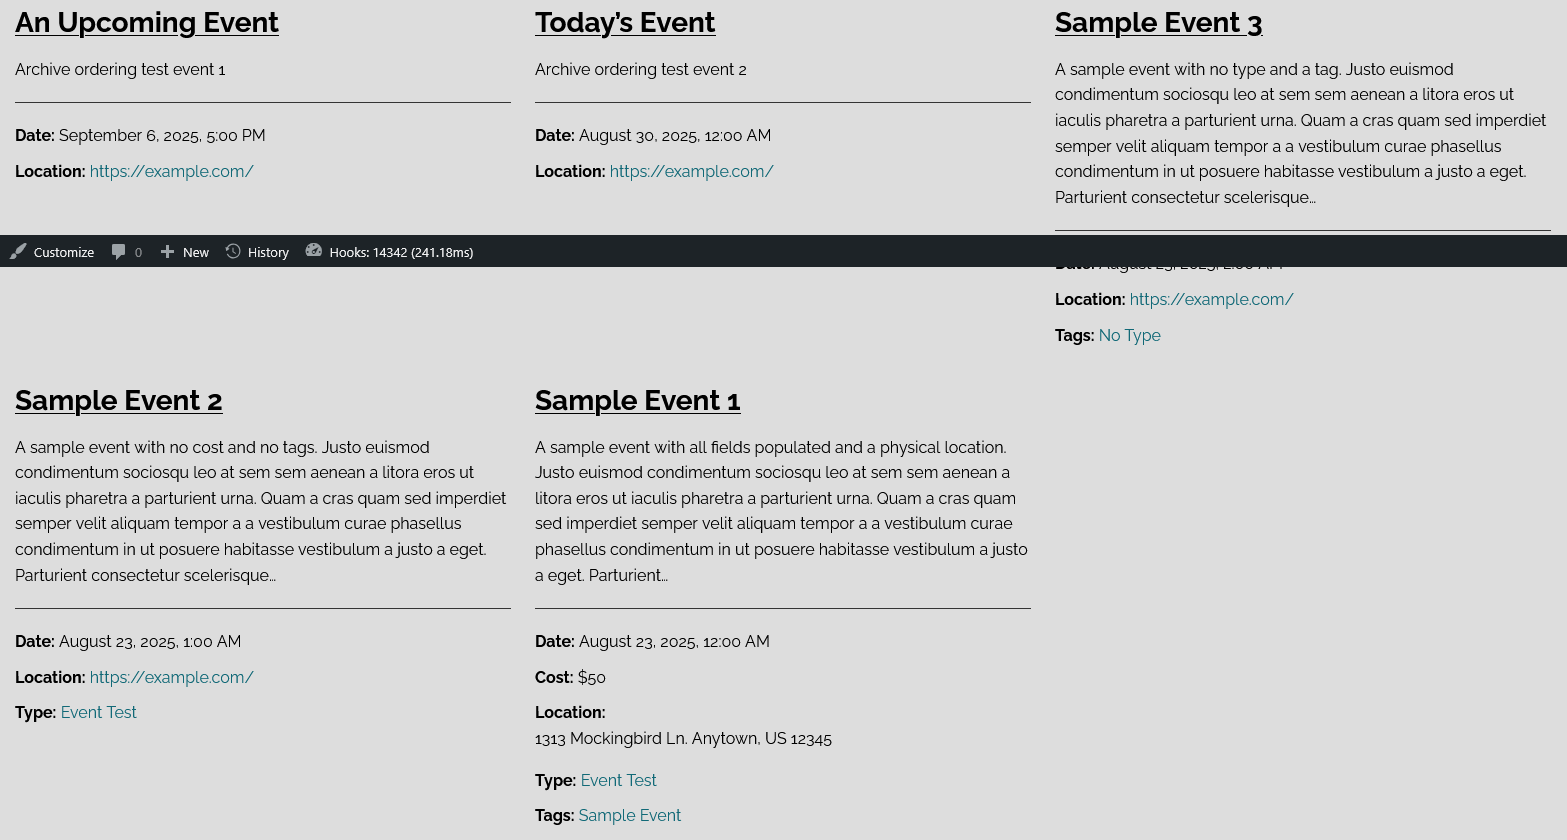
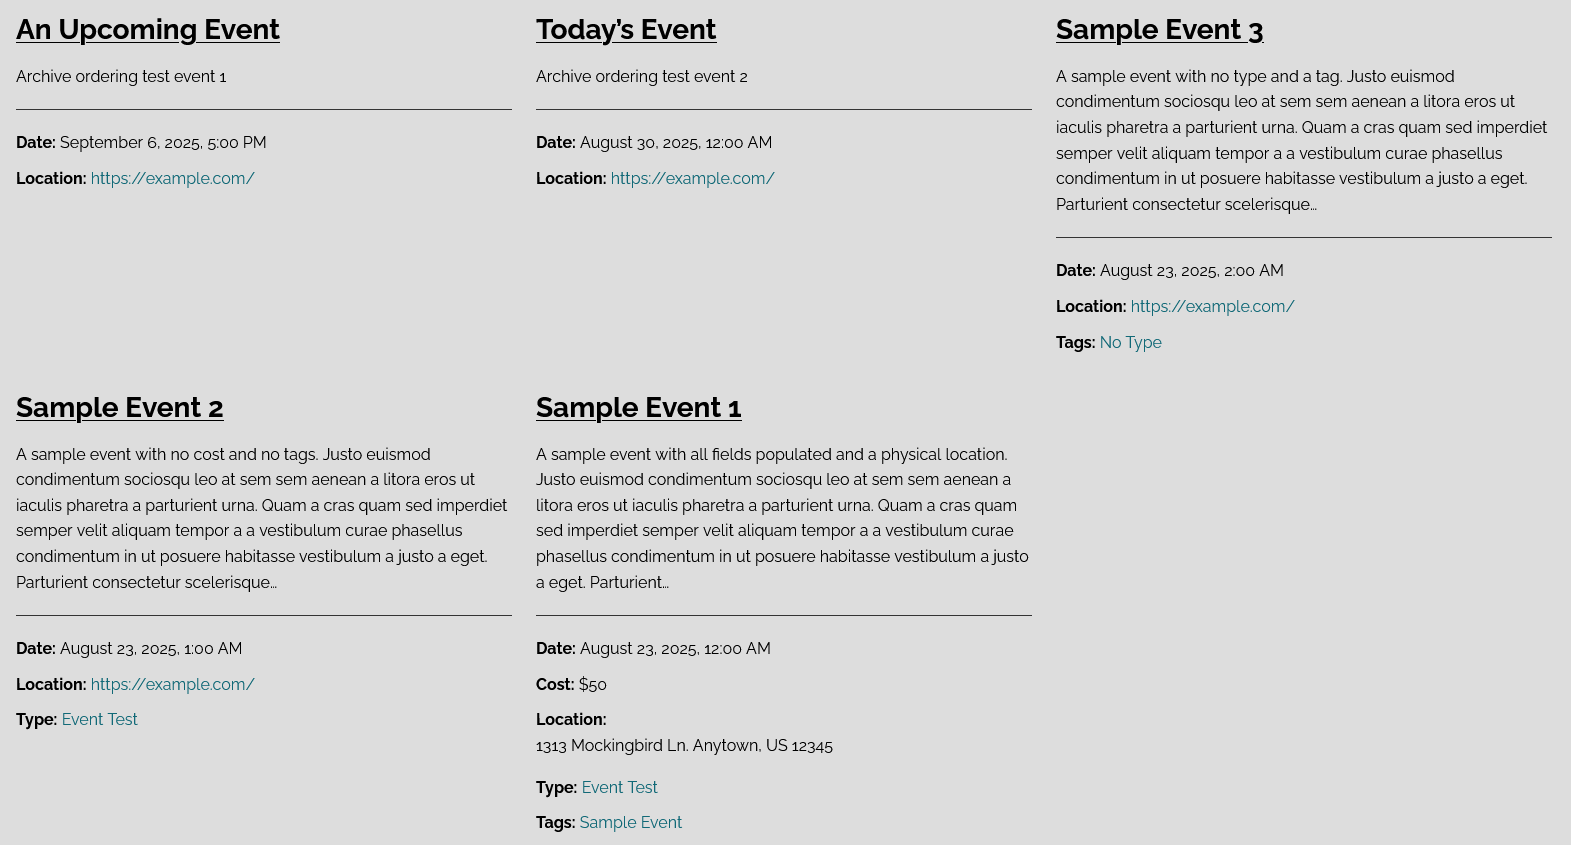
🐞 fix: Update plugin description and screenshot

diff --git a/aa-events.php b/aa-events.php
@@ -2,7 +2,7 @@
 /**
  * Plugin Name:       AA Events
  * Plugin URI:        https://github.com/automattic/aa-events
- * Description:       An events plugin for WordPress.
+ * Description:       An Events management plugin for WordPress, with accessible calendar (WCAG 2.2AA) and card grid views.
  * Version:           1.0.0
  * Author:            Keith Solomon
  * Author URI:        https://vincentdesign.ca
